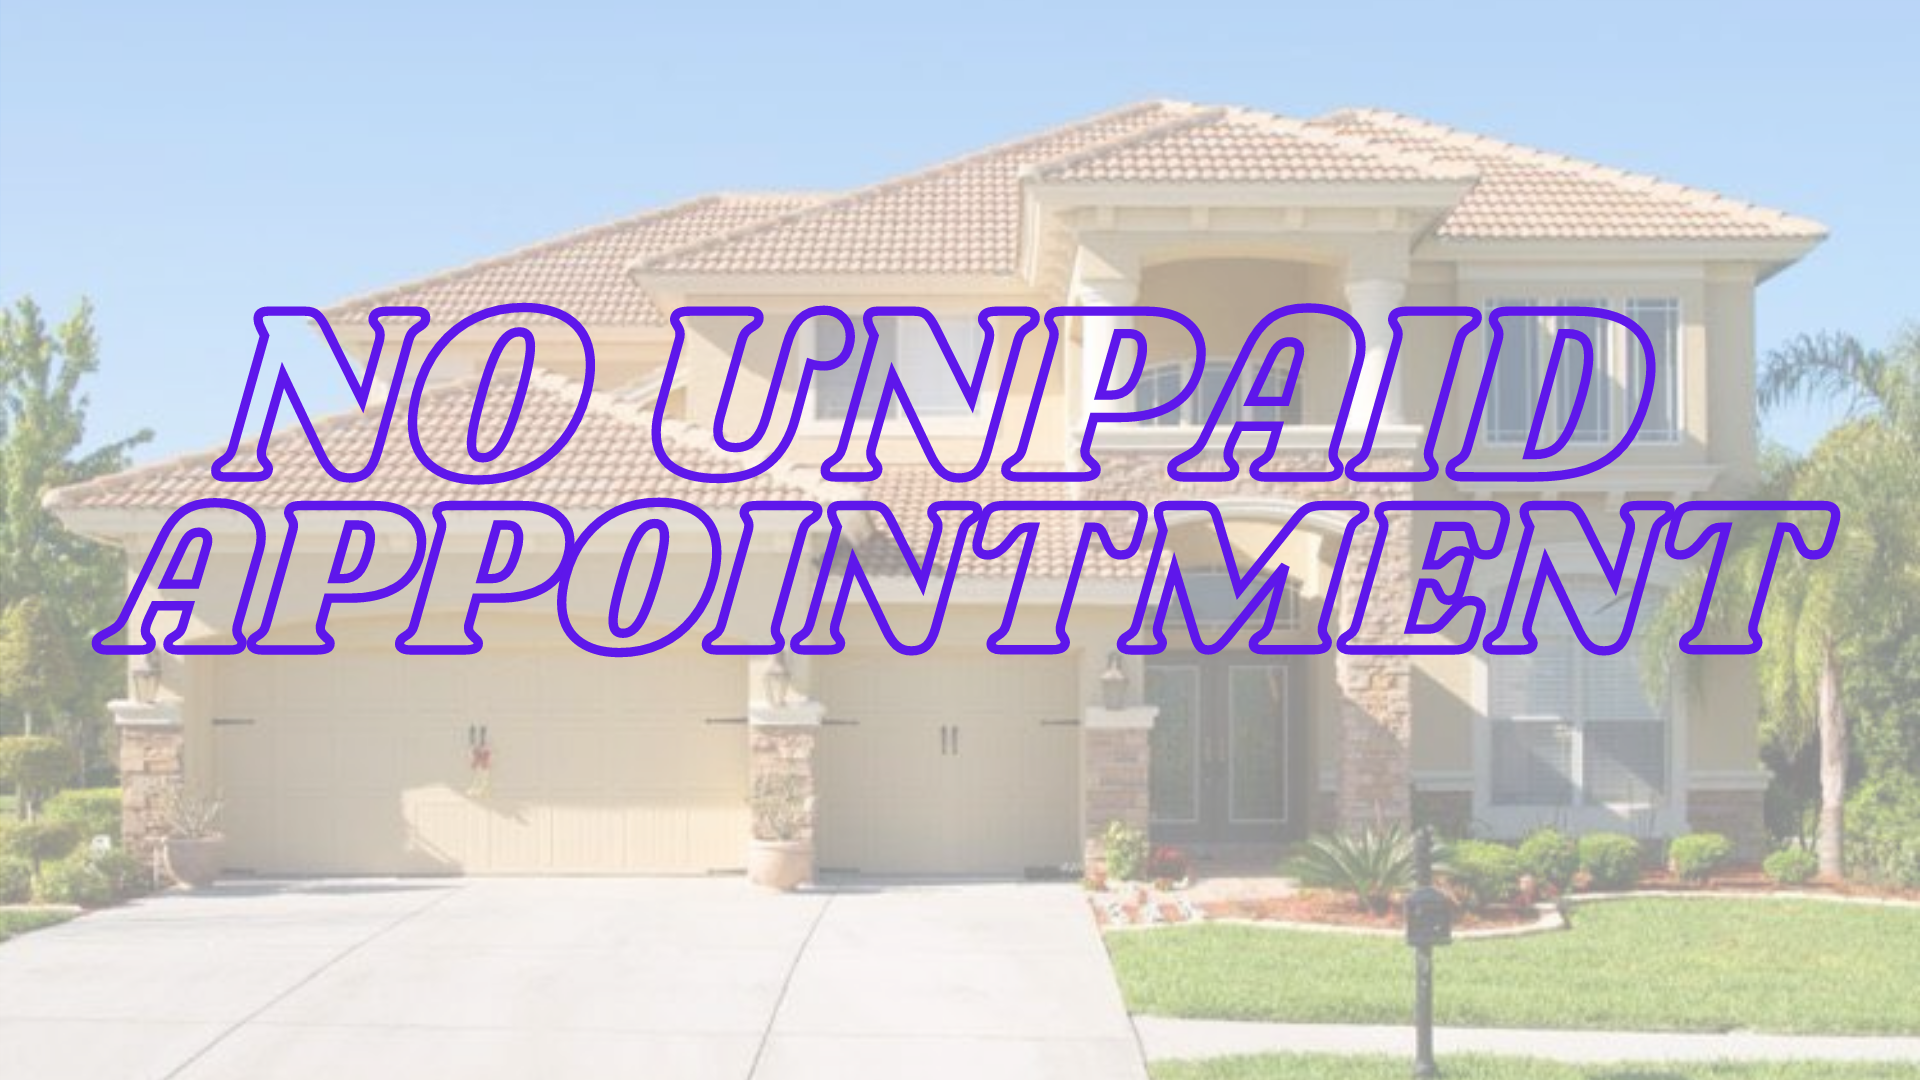
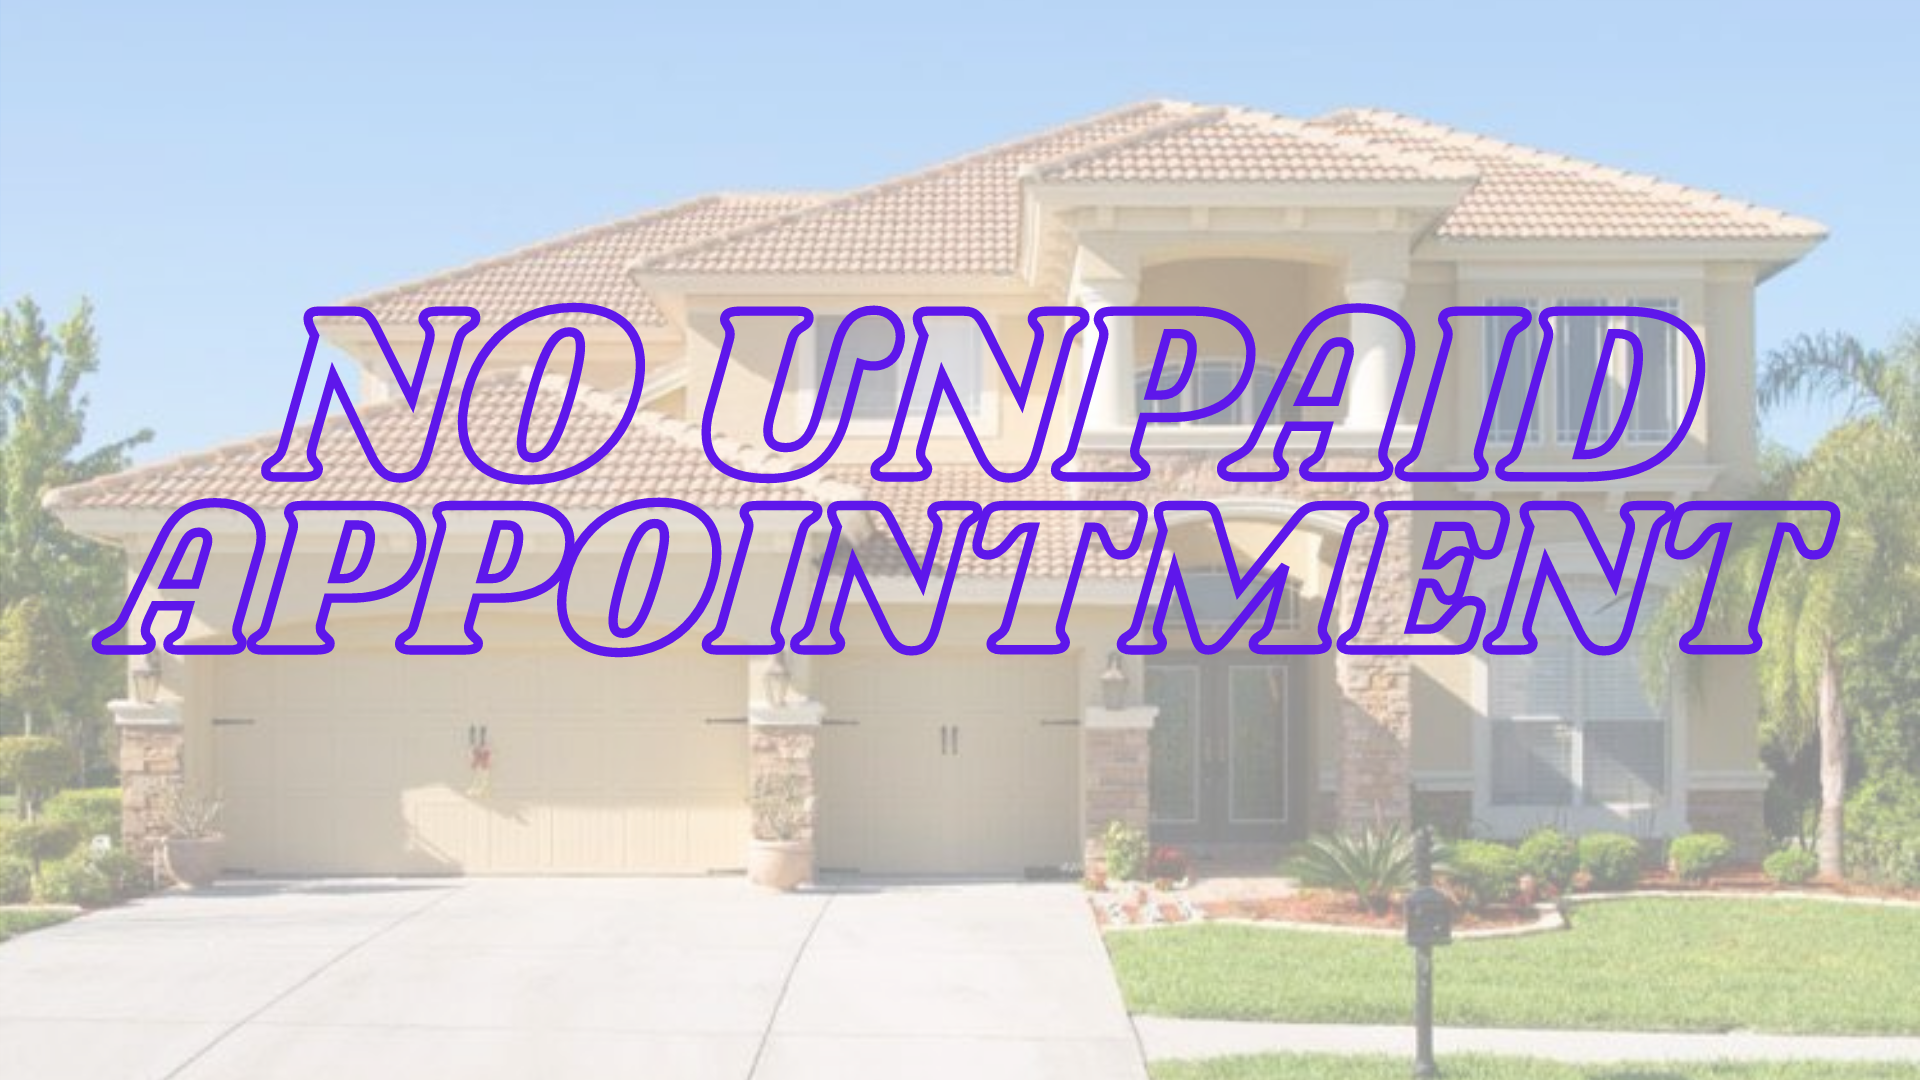
unpaid appointment

Changed region(s): [[0.0938, 0.275, 0.9062, 0.4583]]

diff --git a/resources/views/home.blade.php b/resources/views/home.blade.php
@@ -298,15 +298,10 @@
                                             <li class="action-item"><i class="fa fa-share-alt"></i> <span>122</span></li>
                                         </ul>
                                     </div>
-                                    <div class="news-item-descr big-news">
-                                        <p></p>
-                                    </div>
+                                    
                                     <div class="news-item-bottom">
                                         <a href="blog-details.html" class="news-link">Read more...</a>
-                                        <div class="admin">
-                                            <p>By, Karl Smith</p>
-                                            <img src="assets/images/testimonials/ts-6.jpg" alt="">
-                                        </div>
+                                       
                                     </div>
                                 </div>
                             </div>
@@ -328,15 +323,10 @@
                                             <li class="action-item"><i class="fa fa-share-alt"></i> <span>122</span></li>
                                         </ul>
                                     </div>
-                                    <div class="news-item-descr big-news">
-                                        <p></p>
-                                    </div>
+                                   
                                     <div class="news-item-bottom">
                                         <a href="blog-details.html" class="news-link">Read more...</a>
-                                        <div class="admin">
-                                            <p>By, Lis Jhonson</p>
-                                            <img src="assets/images/testimonials/ts-5.jpg" alt="">
-                                        </div>
+                                      
                                     </div>
                                 </div>
                             </div>
@@ -358,15 +348,10 @@
                                             <li class="action-item"><i class="fa fa-share-alt"></i> <span>122</span></li>
                                         </ul>
                                     </div>
-                                    <div class="news-item-descr big-news">
-                                        <p></p>
-                                    </div>
+                                   
                                     <div class="news-item-bottom">
                                         <a href="blog-details.html" class="news-link">Read more...</a>
-                                        <div class="admin">
-                                            <p>By, Ted Willians</p>
-                                            <img src="assets/images/testimonials/ts-4.jpg" alt="">
-                                        </div>
+                                      
                                     </div>
                                 </div>
                             </div>
@@ -394,3 +379,5 @@
 
 
 @endsection
+
+

diff --git a/resources/views/layouts/app.blade.php b/resources/views/layouts/app.blade.php
@@ -116,6 +116,7 @@
 
                         <li>   <a href="{{ route('my-orders') }}" class="header-action-btn login-btn"                            
                                       >My Appointments</a> </li> 
+
                         <li> <a href="{{ route('logout') }}"
                                        onclick="event.preventDefault();
                                                      document.getElementById('logout-form').submit();">Sign Out</a>  </li>
@@ -145,12 +146,17 @@
 
 
                     <div class="right-side d-none d-none d-lg-none d-xl-flex">  
+                    
+                   
 
-                                     
                         <!-- Header Widget -->
                         <div class="header-widget">
 
-                            <a href="{{route('appointment-cart')}}" class="button border"> {{Session::has('cart') ? Session::get('cart')->totalQty : ''}} Unpaid Appiontment</a>
+                       
+
+
+
+                            <a href="{{route('appointment-cart')}}" class="button border fa fa-calendar" > {{Session::has('cart') ? Session::get('cart')->totalQty : ''}} Unpaid Appointment</a>
                         </div>
                         <!-- Header Widget / End -->
                     </div>

diff --git a/resources/views/my-orders.blade.php b/resources/views/my-orders.blade.php
@@ -49,7 +49,7 @@
 
                         </div>
                     </div>
-                </div>
+                </div>  <br><br><br><br><br><br>
 
 
 

diff --git a/app/Http/Controllers/ListingController.php b/app/Http/Controllers/ListingController.php
@@ -275,3 +275,5 @@ class ListingController extends Controller
 
        
 }
+
+
